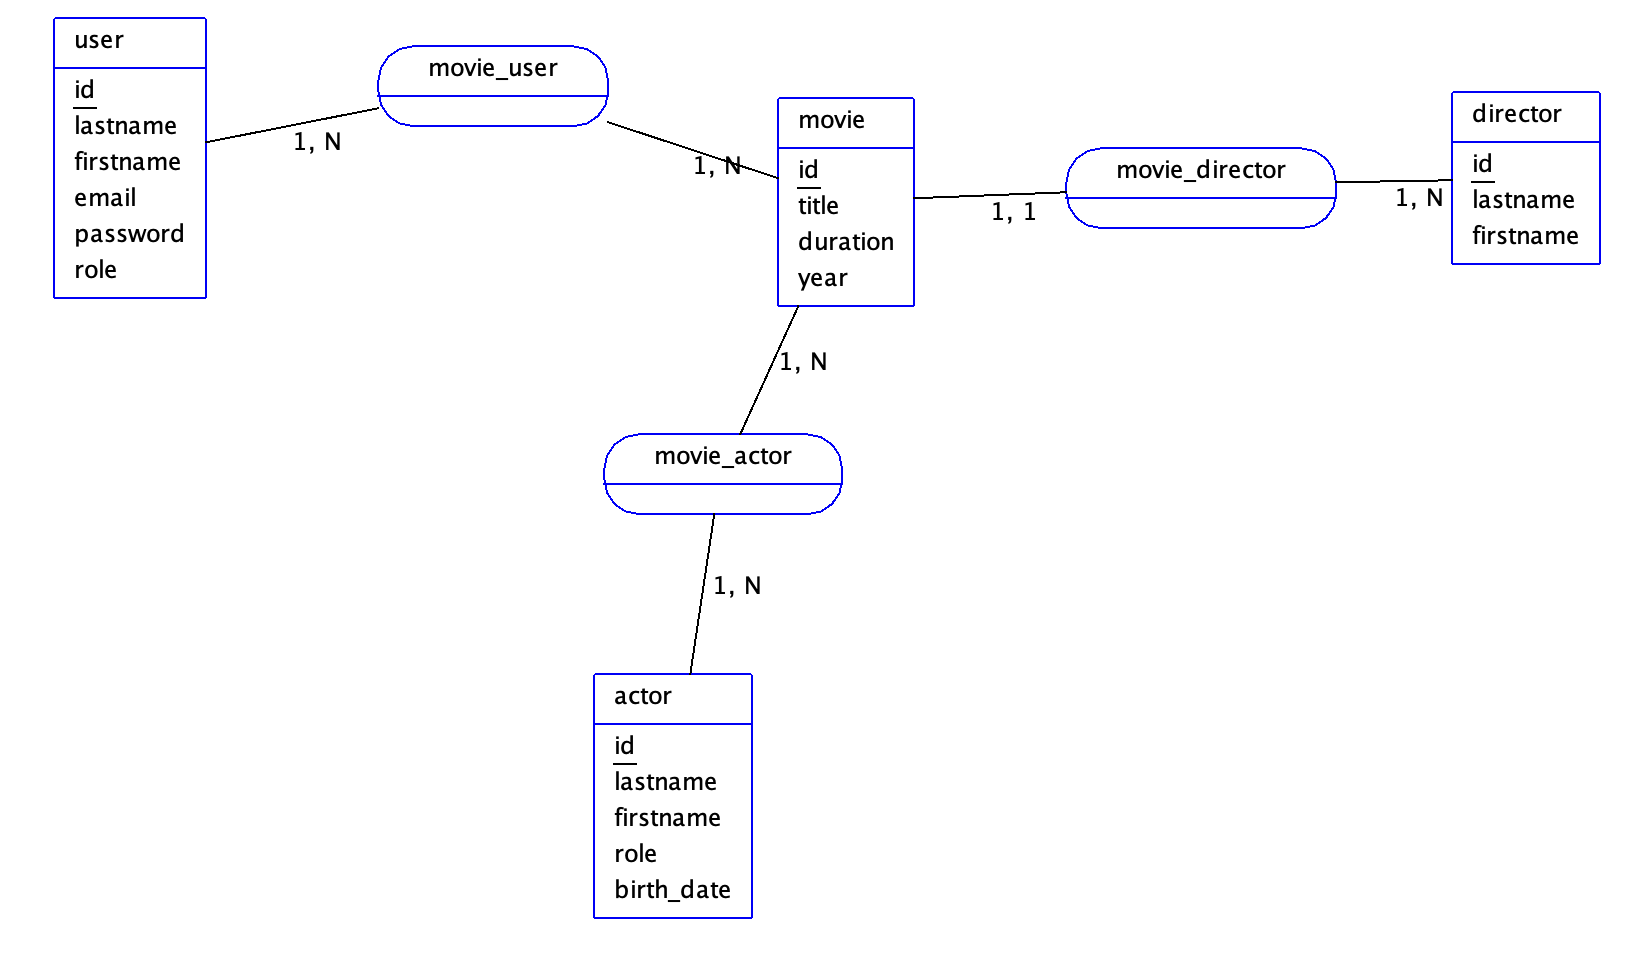
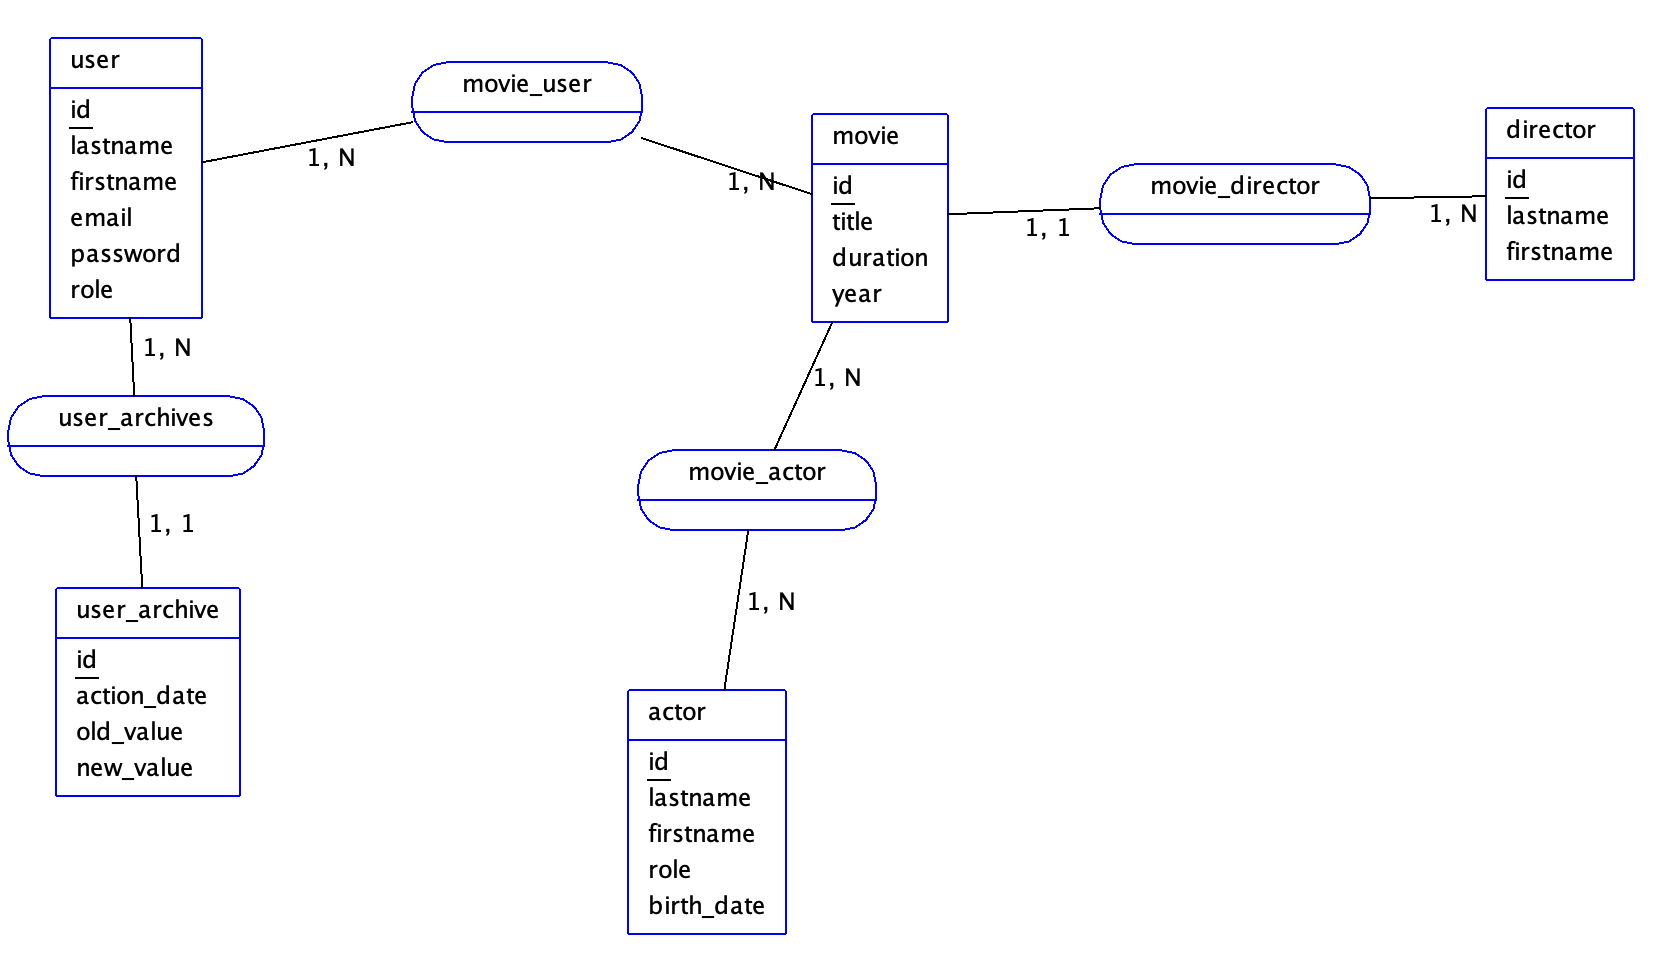
docs: :memo: Change diagrams and update README.md

diff --git a/README.md b/README.md
@@ -99,3 +99,22 @@ DELIMITER ;
 ```sql
 CALL ListMoviesByDirector('Nom du Réalisateur');
 ```
+
+### Garder grâce à un trigger une trace de toutes les modifications apportées à la table des utilisateurs avec une table d'archives
+
+```sql
+DELIMITER //
+CREATE TRIGGER User_Audit_Trigger
+AFTER UPDATE ON user FOR EACH ROW
+BEGIN
+    INSERT INTO user_archive (user_id, action_date, old_value, new_value)
+    VALUES (
+        OLD.id_user,
+        NOW(),
+        CONCAT('Nom: ', OLD.last_name, ', Prénom: ', OLD.first_name),
+        CONCAT('Nom: ', NEW.last_name, ', Prénom: ', NEW.first_name)
+    );
+END;
+//
+DELIMITER ;
+```
